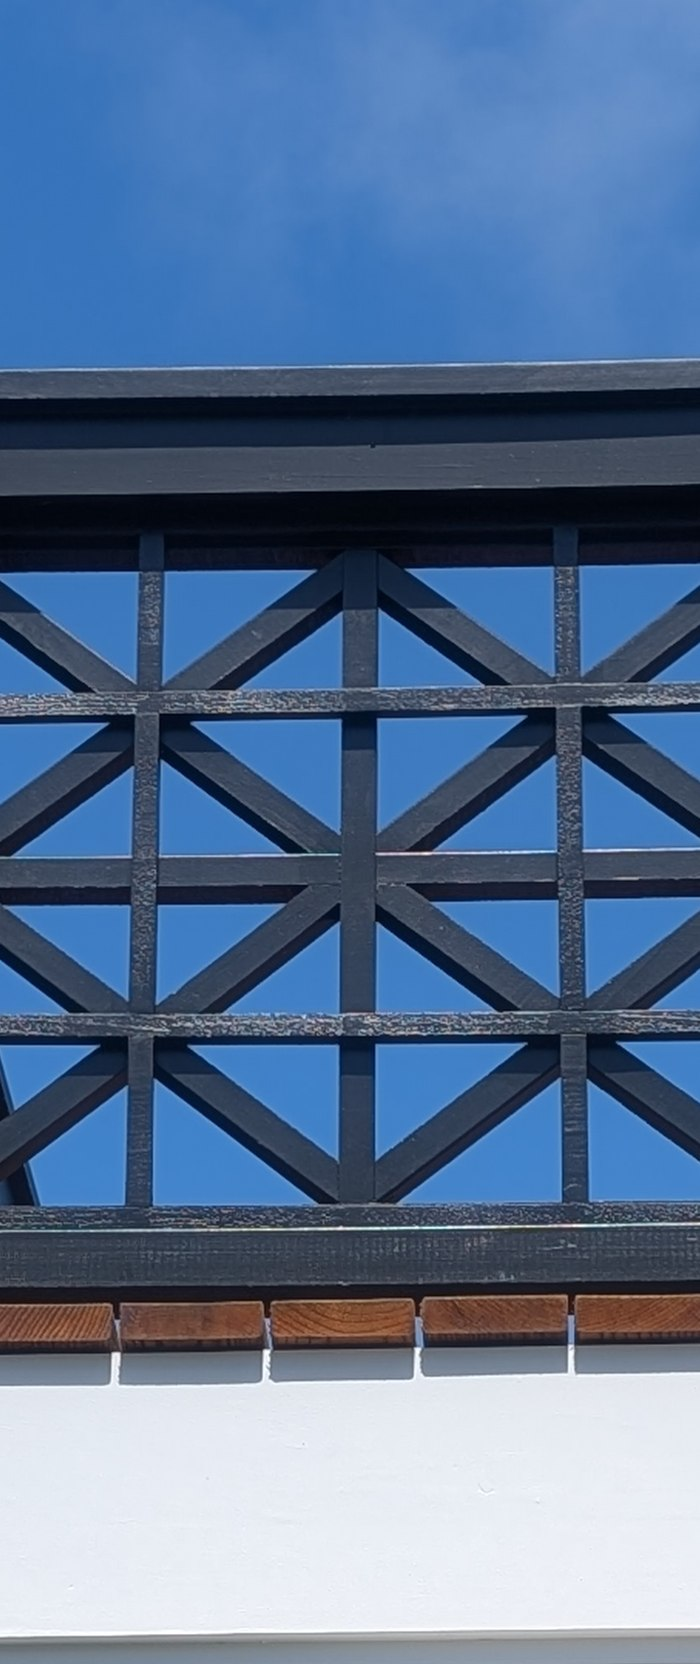
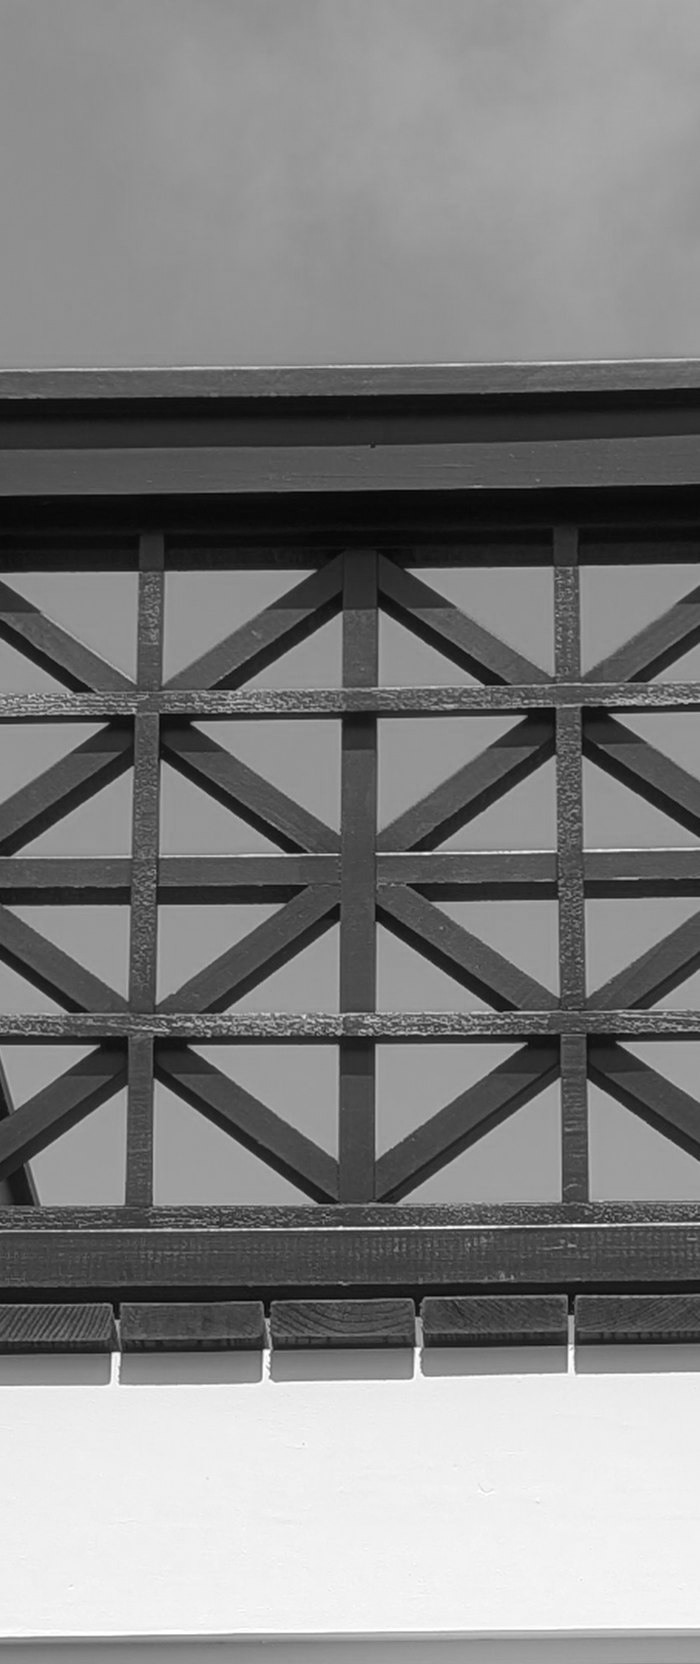
Concord Way strip: black and white partly from the blue channel, so the railing stands off the sky under blue, green and purple (original kept as strip-color.jpg)

diff --git a/js/projects.js b/js/projects.js
@@ -80,7 +80,7 @@
 */
 
 // Bump whenever an image file is replaced under the same name, so browsers fetch the new one
-const IMAGE_VERSION = 41;
+const IMAGE_VERSION = 42;
 
 const CATEGORIES = [
   { id: "academic", label: "Academic", prefix: "A" },
@@ -972,7 +972,7 @@ const PROJECTS = [
     location: "Burlingame, CA",
     type: "Single-Family Renovation",
     status: "Built",
-    strip: "assets/img/projects/concord-way/strip.jpg", // pre-cropped close on one railing panel against the sky
+    strip: "assets/img/projects/concord-way/strip.jpg", // pre-cropped close on one railing panel against the sky; black and white made partly from the blue channel so the sky stays lighter than the railing under the darker tints (backup: strip-color.jpg, the original)
     stripFocus: "50% 50%",
     stripMono: true, // shown in black and white so it takes a tint like the others
     summary: [

diff --git a/project.html b/project.html
@@ -52,7 +52,7 @@
     <article class="project" id="project"></article>
   </main>
 
-  <script src="js/projects.js?v=102"></script>
+  <script src="js/projects.js?v=103"></script>
   <script src="js/main.js?v=95"></script>
 </body>
 </html>

diff --git a/index.html b/index.html
@@ -161,7 +161,7 @@
     </div>
   </main>
 
-  <script src="js/projects.js?v=102"></script>
+  <script src="js/projects.js?v=103"></script>
   <script src="js/main.js?v=95"></script>
 </body>
 </html>
